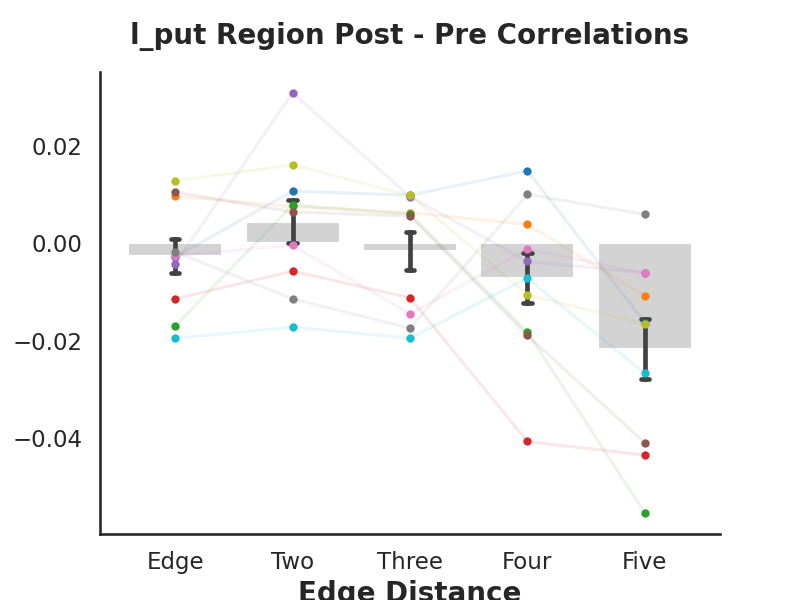
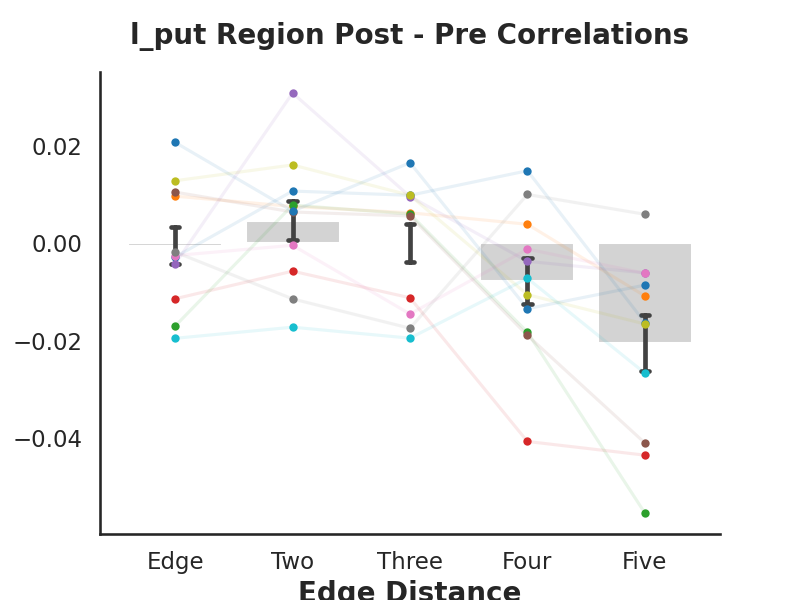
that didnt look great

diff --git a/RSA/analyze_prepost.py b/RSA/analyze_prepost.py
@@ -44,15 +44,15 @@ def analyze_prepost(npz_name:str="rsa_results.npz"):
     betas = 0 # If you have multiple beta comparisons can adjust
 
     #subject_list = ['1181','1185','1202','1211','1224','1227']
-    subject_list = ['5153','5159','5152','700','5155','5169','515','516','517','5191']
+    subject_list = ['5153','5159','5152','700','5155','5169','515','516','517','5191','5156']
     subjects = len(subject_list) #number of subjects
 
-    masks = ['l_lo','r_lo','l_erc','r_erc','l_tpo','r_tpo','l_hip','r_hip','l_put','r_put','search_l_hip_dilD_2mm','search_l_put_dilD_2mm']
+    masks = ['l_lo','r_lo','l_erc','r_erc','l_tpo','r_tpo','l_hip','r_hip','l_put','r_put']
 
     betaseries = ['prepost']
     thisbeta = betaseries[betas]
 
-    roi_rsa_result = [[],[],[],[],[],[],[],[],[],[],[],[]] #Initializes roi_rsa where each list is a mask label and within will be subjectxbin averages
+    roi_rsa_result = [[],[],[],[],[],[],[],[],[],[]] #Initializes roi_rsa where each list is a mask label and within will be subjectxbin averages
     # directory from which we are working
     dir = os.getcwd()
 
